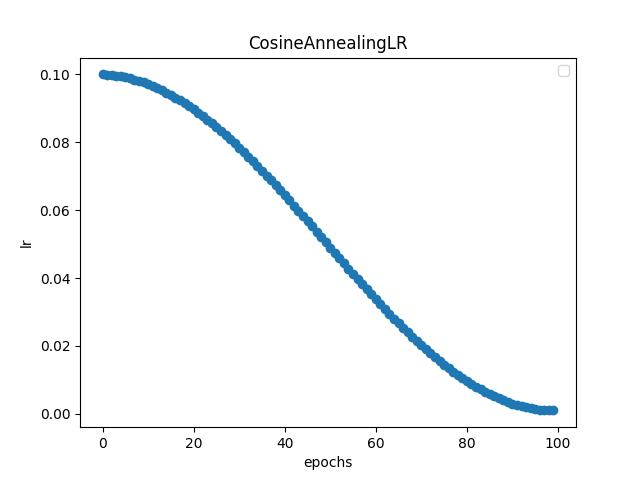
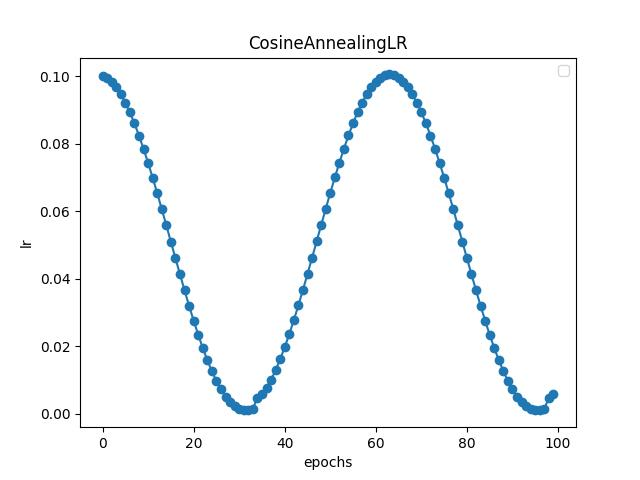
update lr

diff --git a/04. 训练/09. 各种学习率/CosineAnnealingLR.py b/04. 训练/09. 各种学习率/CosineAnnealingLR.py
@@ -11,7 +11,7 @@ if __name__ == "__main__":
     min_lr = 0.001
     resnet = resnet18()
     optimizer = Adam(resnet.parameters(), lr=init_lr)
-    lr_scheduler = CosineAnnealingLR(optimizer, epochs, eta_min=min_lr)
+    lr_scheduler = CosineAnnealingLR(optimizer, 32, eta_min=min_lr)
     lrs = []
     for i in range(epochs):
         current_lr = lr_scheduler.get_lr()
@@ -23,4 +23,4 @@ if __name__ == "__main__":
     plt.xlabel('epochs')
     plt.ylabel('lr')
     plt.legend()
-    plt.savefig("lr.jpg")
+    plt.savefig("cosine.jpg")

diff --git a/04. 训练/09. 各种学习率/one_cycle.py b/04. 训练/09. 各种学习率/one_cycle.py
@@ -7,9 +7,9 @@ def one_cycle(y1=0.0, y2=1.0, steps=100):
 
 
 if __name__ == '__main__':
-    lf = one_cycle(1, 0.01, 100)
+    lf = one_cycle(1, 0.01, 32)
     for i in range(100):
         plt.plot(i, lf(i), 'ro')
     plt.xlabel("epochs")
     plt.ylabel("lr")
-    plt.savefig('one_cycle.png')
+    plt.savefig('one_cycle.jpg')

diff --git a/04. 训练/14. 各种损失函数/02. 各种IoU Loss/README.md b/04. 训练/14. 各种损失函数/02. 各种IoU Loss/README.md
@@ -82,6 +82,8 @@
 
 ## 六. IoU、GIoU、DIoU、CIoU、SIoU代码实现
 
+目标检测版本:
+
 ```python
 def bbox_iou(box1, box2, x1y1x2y2=True, GIoU=False, DIoU=False, CIoU=False, SIoU=False, eps=1e-7):
     # Returns the IoU of box1 to box2. box1 is 4, box2 is nx4
@@ -145,5 +147,36 @@ def bbox_iou(box1, box2, x1y1x2y2=True, GIoU=False, DIoU=False, CIoU=False, SIoU
         return iou - 0.5 * (distance_cost + shape_cost) #siou
     else:
         return iou  # IoU
+```
+
+语义分割版本:
+
+```python
+import torch
+import torch.nn as nn
+
+
+class IOU(nn.Module):
+    def __init__(self):
+        super(IOU, self).__init__()
+
+    def _iou(self, pred, target):
+        pred = torch.sigmoid(pred)
+        inter = (pred * target).sum(dim=(2, 3))
+        union = (pred + target).sum(dim=(2, 3)) - inter
+        iou = 1 - (inter / union)
+        return iou.mean()
+
+    def forward(self, pred, target):
+        return self._iou(pred, target)
+    
+
+if __name__ == "__main__":
+    pred = torch.rand(1, 3, 640, 640)
+    label = torch.zeros(1, 3, 640, 640)
+    label[:, :, 100:200, 100:200] = 1
+    loss_fn = IOU()
+    loss = loss_fn(pred, label)
+    print(loss)
 ```
 
